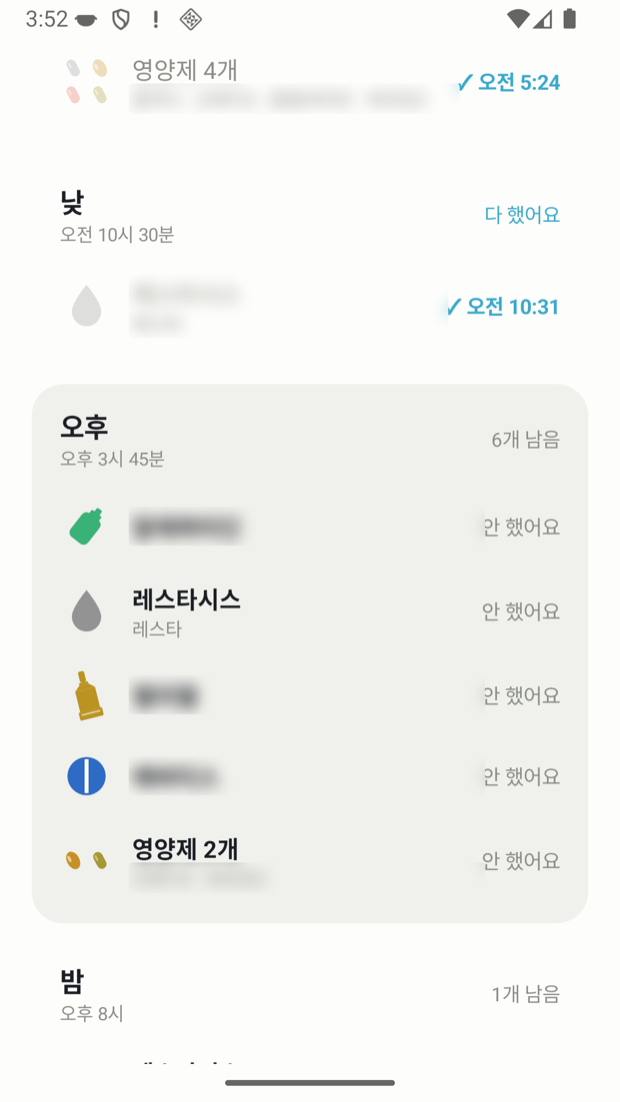
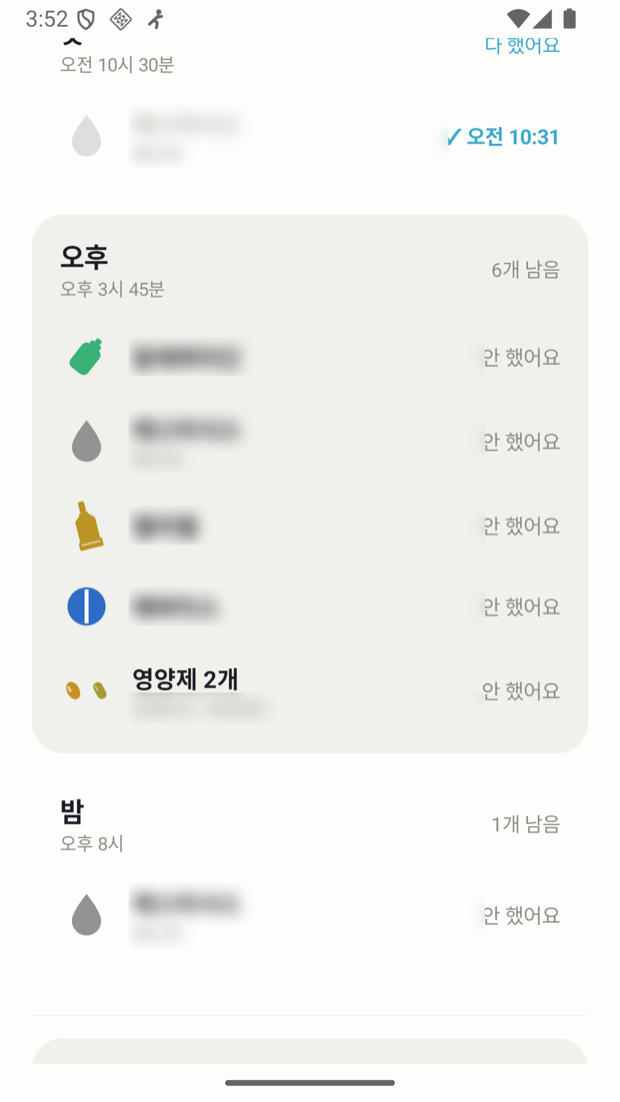
약수첩 캡처 — 같은 이름도 다 흐린 것으로

diff --git a/public/p/pillbox/manual.html b/public/p/pillbox/manual.html
@@ -134,29 +134,29 @@ svg.fig{display:block;width:100%;height:auto;margin:6px 0 0} svg.fig text{font-f
 <circle cx="1080" cy="1467.0" r="7" fill="#A8834F"/>
 <text x="1140" y="1460.0" font-size="34" font-weight="700" fill="#2B2926">알림이 사라지기까지</text>
 <text x="1140" y="1508.0" font-size="28" fill="#5A554F">그 구간이 지나면 소용없어서요.</text>
-</svg></section><section class="moment"><h2>인공눈물과 되돌리기</h2><svg class="fig" viewBox="0 0 1960 1028" xmlns="http://www.w3.org/2000/svg" xmlns:xlink="http://www.w3.org/1999/xlink" role="img">
-<clipPath id="cp_settings_bottom"><rect x="0" y="0" width="1080" height="1028" rx="36"/></clipPath>
-<rect x="0" y="0" width="1080" height="1028" rx="36" fill="#FDFDFB"/><image href="img/settings_bottom.png" xlink:href="img/settings_bottom.png" x="0" y="-26" width="1080" height="1920" clip-path="url(#cp_settings_bottom)"/>
+</svg></section><section class="moment"><h2>인공눈물과 되돌리기</h2><svg class="fig" viewBox="0 0 1960 1442" xmlns="http://www.w3.org/2000/svg" xmlns:xlink="http://www.w3.org/1999/xlink" role="img">
+<clipPath id="cp_settings_bottom"><rect x="0" y="0" width="1080" height="1442" rx="36"/></clipPath>
+<rect x="0" y="0" width="1080" height="1442" rx="36" fill="#FDFDFB"/><image href="img/settings_bottom.png" xlink:href="img/settings_bottom.png" x="0" y="-26" width="1080" height="1920" clip-path="url(#cp_settings_bottom)"/>
 <rect x="0" y="0" width="1080" height="40" fill="#FDFDFB" clip-path="url(#cp_settings_bottom)"/>
-<rect x="2" y="2" width="1076" height="1024" rx="34" fill="none" stroke="#E4DFD5" stroke-width="4"/>
-<path d="M 41 188 V 168 H 61 M 1019 168 H 1039 V 188 M 41 270 V 290 H 61 M 1019 290 H 1039 V 270" fill="none" stroke="#A8834F" stroke-width="4" stroke-linecap="round"/>
-<path d="M 1043 229.0 H 1080" stroke="#A8834F" stroke-width="2" stroke-dasharray="5 7" opacity=".55"/>
-<path d="M 1080 229.0 H 1110.0 V 210.0 H 1126" fill="none" stroke="#A8834F" stroke-width="3"/>
-<circle cx="1080" cy="229.0" r="7" fill="#A8834F"/>
-<text x="1140" y="222.0" font-size="34" font-weight="700" fill="#2B2926">인공눈물 간격</text>
-<text x="1140" y="270.0" font-size="28" fill="#5A554F">지나면 위젯 물방울이 빨개져요. 기본 60분.</text>
-<path d="M 52 622 V 602 H 72 M 888 602 H 908 V 622 M 52 666 V 686 H 72 M 888 686 H 908 V 666" fill="none" stroke="#A8834F" stroke-width="4" stroke-linecap="round"/>
-<path d="M 912 644.0 H 1080" stroke="#A8834F" stroke-width="2" stroke-dasharray="5 7" opacity=".55"/>
-<path d="M 1080 644.0 H 1110.0 V 625.0 H 1126" fill="none" stroke="#A8834F" stroke-width="3"/>
-<circle cx="1080" cy="644.0" r="7" fill="#A8834F"/>
-<text x="1140" y="637.0" font-size="34" font-weight="700" fill="#2B2926">인공눈물도 알릴지</text>
-<text x="1140" y="685.0" font-size="28" fill="#5A554F">기본은 끔.</text>
-<path d="M 41 824 V 804 H 61 M 1019 804 H 1039 V 824 M 41 880 V 900 H 61 M 1019 900 H 1039 V 880" fill="none" stroke="#A8834F" stroke-width="4" stroke-linecap="round"/>
-<path d="M 1043 852.0 H 1080" stroke="#A8834F" stroke-width="2" stroke-dasharray="5 7" opacity=".55"/>
-<path d="M 1080 852.0 H 1110.0 V 833.0 H 1126" fill="none" stroke="#A8834F" stroke-width="3"/>
-<circle cx="1080" cy="852.0" r="7" fill="#A8834F"/>
-<text x="1140" y="845.0" font-size="34" font-weight="700" fill="#2B2926">되돌리기 유예</text>
-<text x="1140" y="893.0" font-size="28" fill="#5A554F">지나면 체크가 그대로 굳어요.</text>
+<rect x="2" y="2" width="1076" height="1438" rx="34" fill="none" stroke="#E4DFD5" stroke-width="4"/>
+<path d="M 41 602 V 582 H 61 M 1019 582 H 1039 V 602 M 41 684 V 704 H 61 M 1019 704 H 1039 V 684" fill="none" stroke="#A8834F" stroke-width="4" stroke-linecap="round"/>
+<path d="M 1043 643.0 H 1080" stroke="#A8834F" stroke-width="2" stroke-dasharray="5 7" opacity=".55"/>
+<path d="M 1080 643.0 H 1110.0 V 624.0 H 1126" fill="none" stroke="#A8834F" stroke-width="3"/>
+<circle cx="1080" cy="643.0" r="7" fill="#A8834F"/>
+<text x="1140" y="636.0" font-size="34" font-weight="700" fill="#2B2926">인공눈물 간격</text>
+<text x="1140" y="684.0" font-size="28" fill="#5A554F">지나면 위젯 물방울이 빨개져요. 기본 60분.</text>
+<path d="M 52 1036 V 1016 H 72 M 888 1016 H 908 V 1036 M 52 1080 V 1100 H 72 M 888 1100 H 908 V 1080" fill="none" stroke="#A8834F" stroke-width="4" stroke-linecap="round"/>
+<path d="M 912 1058.0 H 1080" stroke="#A8834F" stroke-width="2" stroke-dasharray="5 7" opacity=".55"/>
+<path d="M 1080 1058.0 H 1110.0 V 1039.0 H 1126" fill="none" stroke="#A8834F" stroke-width="3"/>
+<circle cx="1080" cy="1058.0" r="7" fill="#A8834F"/>
+<text x="1140" y="1051.0" font-size="34" font-weight="700" fill="#2B2926">인공눈물도 알릴지</text>
+<text x="1140" y="1099.0" font-size="28" fill="#5A554F">기본은 끔.</text>
+<path d="M 41 1238 V 1218 H 61 M 1019 1218 H 1039 V 1238 M 41 1294 V 1314 H 61 M 1019 1314 H 1039 V 1294" fill="none" stroke="#A8834F" stroke-width="4" stroke-linecap="round"/>
+<path d="M 1043 1266.0 H 1080" stroke="#A8834F" stroke-width="2" stroke-dasharray="5 7" opacity=".55"/>
+<path d="M 1080 1266.0 H 1110.0 V 1247.0 H 1126" fill="none" stroke="#A8834F" stroke-width="3"/>
+<circle cx="1080" cy="1266.0" r="7" fill="#A8834F"/>
+<text x="1140" y="1259.0" font-size="34" font-weight="700" fill="#2B2926">되돌리기 유예</text>
+<text x="1140" y="1307.0" font-size="28" fill="#5A554F">지나면 체크가 그대로 굳어요.</text>
 </svg></section><section class="moment"><h2>약 목록</h2><svg class="fig" viewBox="0 0 1960 1894" xmlns="http://www.w3.org/2000/svg" xmlns:xlink="http://www.w3.org/1999/xlink" role="img">
 <clipPath id="cp_meds"><rect x="0" y="0" width="1080" height="1894" rx="36"/></clipPath>
 <rect x="0" y="0" width="1080" height="1894" rx="36" fill="#FDFDFB"/><image href="img/meds.png" xlink:href="img/meds.png" x="0" y="-26" width="1080" height="1920" clip-path="url(#cp_meds)"/>
